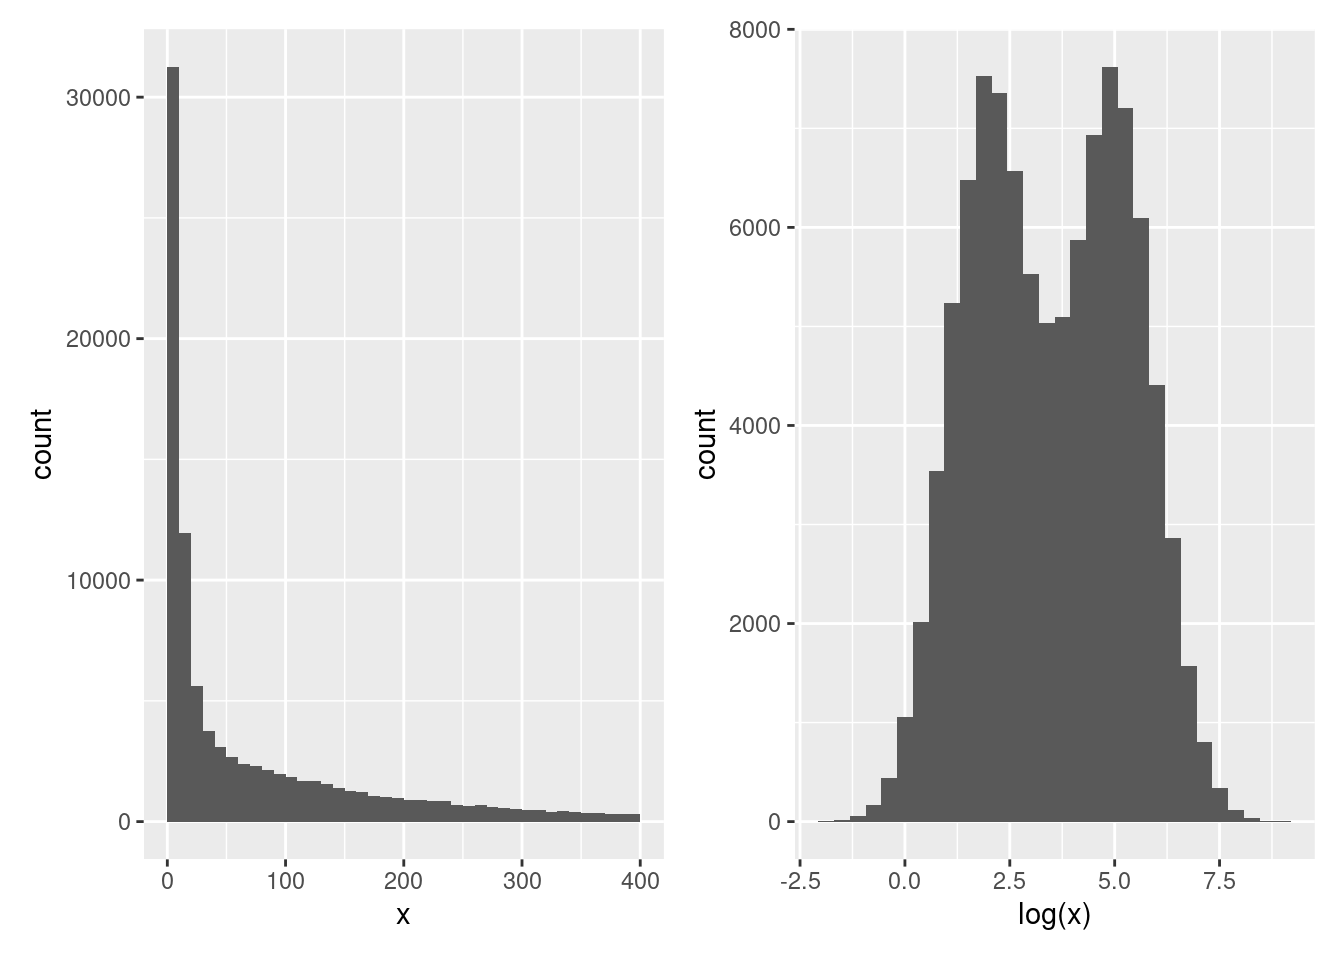
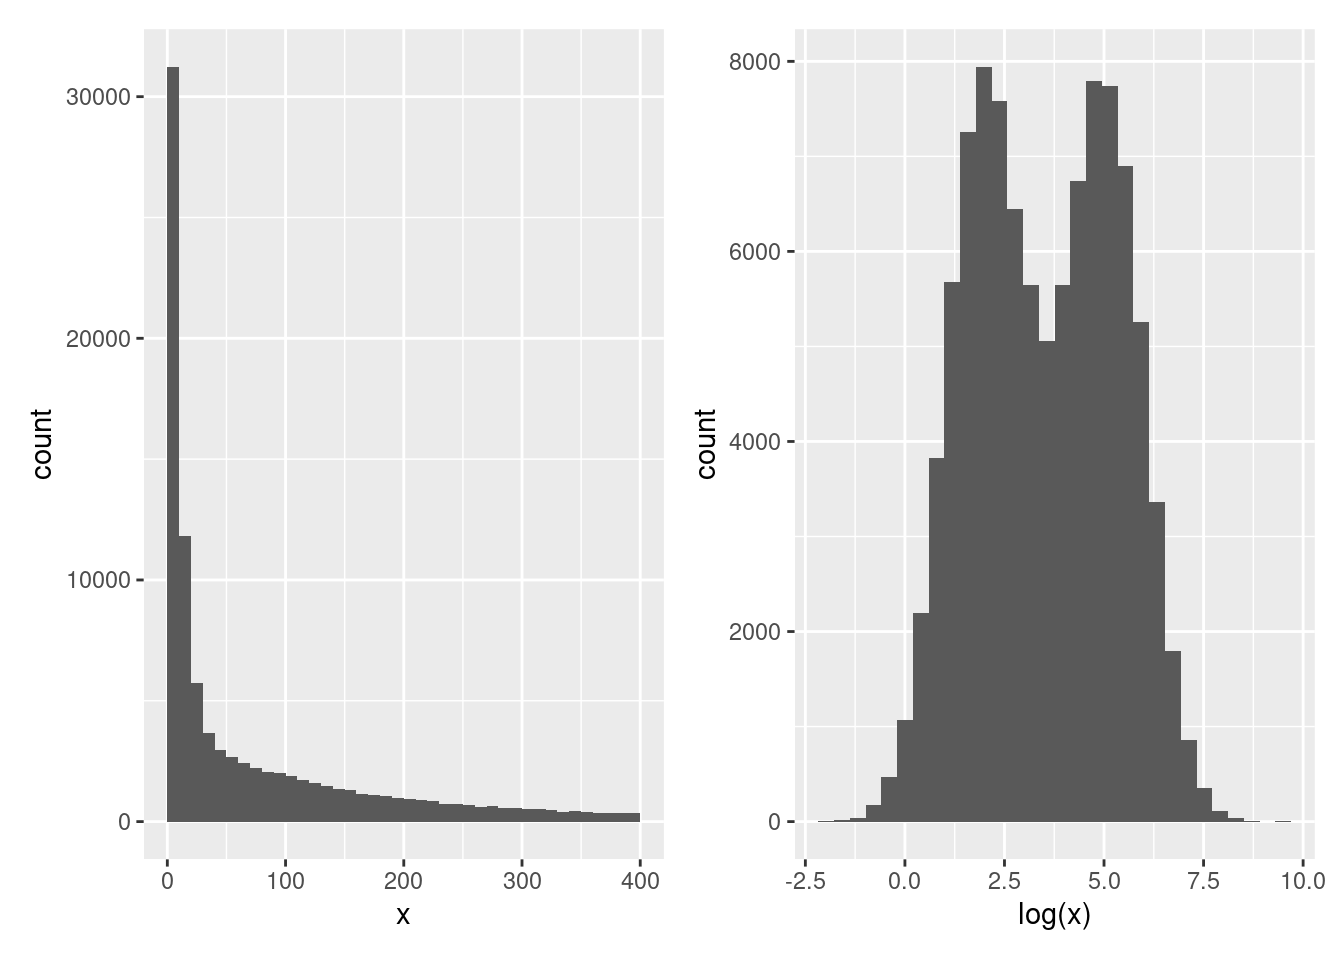
rebuild book

diff --git a/docs/sec-si.html b/docs/sec-si.html
@@ -14,7 +14,7 @@
 
 <meta name="author" content="Laurent Gatto" />
 
-<meta name="date" content="2021-11-22" />
+<meta name="date" content="2021-11-29" />
 
 <script type="text/x-mathjax-config">
 MathJax.Hub.Config({
@@ -242,7 +242,7 @@ div.csl-indent {
 ## [27] rWSBIM1207_0.1.15                     airway_1.14.0                        
 ## [29] SummarizedExperiment_1.24.0           Biobase_2.54.0                       
 ## [31] GenomicRanges_1.46.1                  GenomeInfoDb_1.30.0                  
-## [33] IRanges_2.28.0                        S4Vectors_0.32.2                     
+## [33] IRanges_2.28.0                        S4Vectors_0.32.3                     
 ## [35] BiocGenerics_0.40.0                   MatrixGenerics_1.6.0                 
 ## [37] matrixStats_0.61.0                    BiocStyle_2.22.0                     
 ## [39] patchwork_1.1.1                       ggbeeswarm_0.6.0                     
@@ -267,10 +267,10 @@ div.csl-indent {
 ##  [25] gower_0.2.2              xfun_0.28                hms_1.1.1               
 ##  [28] jquerylib_0.1.4          evaluate_0.14            fansi_0.5.0             
 ##  [31] restfulr_0.0.13          progress_1.2.2           dendextend_1.15.2       
-##  [34] dbplyr_2.1.1             readxl_1.3.1             igraph_1.2.8            
+##  [34] dbplyr_2.1.1             readxl_1.3.1             igraph_1.2.9            
 ##  [37] DBI_1.1.1                htmlwidgets_1.5.4        ellipsis_0.3.2          
-##  [40] ggpubr_0.4.0             backports_1.3.0          bookdown_0.24           
-##  [43] biomaRt_2.50.0           vctrs_0.3.8              abind_1.4-5             
+##  [40] ggpubr_0.4.0             backports_1.4.0          bookdown_0.24           
+##  [43] biomaRt_2.50.1           vctrs_0.3.8              abind_1.4-5             
 ##  [46] caret_6.0-90             cachem_1.0.6             withr_2.4.2             
 ##  [49] msmbstyle_0.0.19         vroom_1.5.6              checkmate_2.0.0         
 ##  [52] GenomicAlignments_1.30.0 prettyunits_1.1.1        mclust_5.4.8            
@@ -321,7 +321,7 @@ the following code:</p>
 <a href="sec-ccl.html"><button class="btn btn-default">Previous</button></a>
 </p>
 <p class="build-date">Page built: 
-2021-11-22
+2021-11-29
  using 
 R version 4.1.2 (2021-11-01)
 </p>

diff --git a/docs/sec-biovis.html b/docs/sec-biovis.html
@@ -14,7 +14,7 @@
 
 <meta name="author" content="Laurent Gatto" />
 
-<meta name="date" content="2021-11-22" />
+<meta name="date" content="2021-11-29" />
 
 <script type="text/x-mathjax-config">
 MathJax.Hub.Config({
@@ -323,7 +323,8 @@ data (not only proteomics) for a useful reference.</p>
 analysis. Venn and Euler diagrams are popular representation when
 comparing sets and their intersection. Two useful R packages to
 generate such plots are
-<em><a href="https://CRAN.R-project.org/package=venneuler">venneuler</a></em> and <em><a href="https://github.com/js229/Vennerable">Vennerable</a></em>.</p>
+<em><a href="https://CRAN.R-project.org/package=venneuler">venneuler</a></em> and <em><a href="https://github.com/js229/Vennerable">Vennerable</a></em><label for="tufte-sn-17" class="margin-toggle sidenote-number">17</label><input type="checkbox" id="tufte-sn-17" class="margin-toggle"><span class="sidenote"><span class="sidenote-number">17</span> You can install <code>Vennerable</code> with
+<code>BiocManager::install("js229/Vennerable")</code>.</span>.</p>
 <p>We will use the <code>mulvey2015</code> feature names to generate a test data:</p>
 <div class="sourceCode" id="cb435"><pre class="sourceCode r"><code class="sourceCode r"><span id="cb435-1"><a href="sec-biovis.html#cb435-1" aria-hidden="true" tabindex="-1"></a><span class="fu">set.seed</span>(<span class="dv">123</span>)</span>
 <span id="cb435-2"><a href="sec-biovis.html#cb435-2" aria-hidden="true" tabindex="-1"></a><span class="fu">library</span>(<span class="st">"pRolocdata"</span>)</span>
@@ -486,7 +487,7 @@ number of intersectios (default is 40) become useful.</p>
 <a href="sec-ccl.html"><button class="btn btn-default">Next</button></a>
 </p>
 <p class="build-date">Page built: 
-2021-11-22
+2021-11-29
  using 
 R version 4.1.2 (2021-11-01)
 </p>

diff --git a/docs/sec-vis.html b/docs/sec-vis.html
@@ -14,7 +14,7 @@
 
 <meta name="author" content="Laurent Gatto" />
 
-<meta name="date" content="2021-11-22" />
+<meta name="date" content="2021-11-29" />
 
 <script type="text/x-mathjax-config">
 MathJax.Hub.Config({
@@ -919,7 +919,7 @@ of the data.</p>
 <span id="cb37-9"><a href="sec-vis.html#cb37-9" aria-hidden="true" tabindex="-1"></a>p2 <span class="ot">&lt;-</span>  <span class="fu">ggplot</span>(sim, <span class="fu">aes</span>(<span class="fu">log</span>(x))) <span class="sc">+</span></span>
 <span id="cb37-10"><a href="sec-vis.html#cb37-10" aria-hidden="true" tabindex="-1"></a>    <span class="fu">geom_histogram</span>(<span class="at">bins =</span> <span class="dv">30</span>)</span>
 <span id="cb37-11"><a href="sec-vis.html#cb37-11" aria-hidden="true" tabindex="-1"></a>p1 <span class="sc">+</span> p2</span></code></pre></div>
-<pre><code>## Warning: Removed 8043 rows containing non-finite values (stat_bin).</code></pre>
+<pre><code>## Warning: Removed 8183 rows containing non-finite values (stat_bin).</code></pre>
 <div class="figure">
 <span style="display:block;" id="fig:sim"></span>
 <p class="caption marginnote shownote">
@@ -1165,7 +1165,7 @@ otherwise. Below are some example outputs.</p>
 <a href="sec-obj.html"><button class="btn btn-default">Next</button></a>
 </p>
 <p class="build-date">Page built: 
-2021-11-22
+2021-11-29
  using 
 R version 4.1.2 (2021-11-01)
 </p>

diff --git a/docs/index.html b/docs/index.html
@@ -14,7 +14,7 @@
 
 <meta name="author" content="Laurent Gatto" />
 
-<meta name="date" content="2021-11-22" />
+<meta name="date" content="2021-11-29" />
 
 <script type="text/x-mathjax-config">
 MathJax.Hub.Config({
@@ -339,7 +339,7 @@ style</a> <span class="citation">(<label for="tufte-mn-10" class="margin-toggle"
 <a href="sec-refresher.html"><button class="btn btn-default">Next</button></a>
 </p>
 <p class="build-date">Page built: 
-2021-11-22
+2021-11-29
  using 
 R version 4.1.2 (2021-11-01)
 </p>

diff --git a/docs/sec-sl.html b/docs/sec-sl.html
@@ -14,7 +14,7 @@
 
 <meta name="author" content="Laurent Gatto" />
 
-<meta name="date" content="2021-11-22" />
+<meta name="date" content="2021-11-29" />
 
 <script type="text/x-mathjax-config">
 MathJax.Hub.Config({
@@ -1053,7 +1053,7 @@ most reliable assignments one, and setting the unreliable ones to
 <a href="sec-biovis.html"><button class="btn btn-default">Next</button></a>
 </p>
 <p class="build-date">Page built: 
-2021-11-22
+2021-11-29
  using 
 R version 4.1.2 (2021-11-01)
 </p>

diff --git a/docs/sec-mlintro.html b/docs/sec-mlintro.html
@@ -14,7 +14,7 @@
 
 <meta name="author" content="Laurent Gatto" />
 
-<meta name="date" content="2021-11-22" />
+<meta name="date" content="2021-11-29" />
 
 <script type="text/x-mathjax-config">
 MathJax.Hub.Config({
@@ -761,7 +761,7 @@ but these are beyond the scope of this course.</p>
 <a href="sec-testing.html"><button class="btn btn-default">Next</button></a>
 </p>
 <p class="build-date">Page built: 
-2021-11-22
+2021-11-29
  using 
 R version 4.1.2 (2021-11-01)
 </p>

diff --git a/docs/sec-obj.html b/docs/sec-obj.html
@@ -14,7 +14,7 @@
 
 <meta name="author" content="Laurent Gatto" />
 
-<meta name="date" content="2021-11-22" />
+<meta name="date" content="2021-11-29" />
 
 <script type="text/x-mathjax-config">
 MathJax.Hub.Config({
@@ -996,7 +996,7 @@ of class <code>SummarizedExperiment</code>.</p>
 <a href="sec-biostrings.html"><button class="btn btn-default">Next</button></a>
 </p>
 <p class="build-date">Page built: 
-2021-11-22
+2021-11-29
  using 
 R version 4.1.2 (2021-11-01)
 </p>

diff --git a/docs/sec-ul.html b/docs/sec-ul.html
@@ -14,7 +14,7 @@
 
 <meta name="author" content="Laurent Gatto" />
 
-<meta name="date" content="2021-11-22" />
+<meta name="date" content="2021-11-29" />
 
 <script type="text/x-mathjax-config">
 MathJax.Hub.Config({
@@ -995,7 +995,7 @@ average marker profiles, such as shown below.</p></li>
 <a href="sec-sl.html"><button class="btn btn-default">Next</button></a>
 </p>
 <p class="build-date">Page built: 
-2021-11-22
+2021-11-29
  using 
 R version 4.1.2 (2021-11-01)
 </p>

diff --git a/docs/sec-norm.html b/docs/sec-norm.html
@@ -14,7 +14,7 @@
 
 <meta name="author" content="Laurent Gatto" />
 
-<meta name="date" content="2021-11-22" />
+<meta name="date" content="2021-11-29" />
 
 <script type="text/x-mathjax-config">
 MathJax.Hub.Config({
@@ -748,7 +748,7 @@ implications for the normalisation step?</p>
 <a href="sec-mlintro.html"><button class="btn btn-default">Next</button></a>
 </p>
 <p class="build-date">Page built: 
-2021-11-22
+2021-11-29
  using 
 R version 4.1.2 (2021-11-01)
 </p>

diff --git a/docs/sec-refresher.html b/docs/sec-refresher.html
@@ -14,7 +14,7 @@
 
 <meta name="author" content="Laurent Gatto" />
 
-<meta name="date" content="2021-11-22" />
+<meta name="date" content="2021-11-29" />
 
 <script type="text/x-mathjax-config">
 MathJax.Hub.Config({
@@ -372,7 +372,7 @@ state it explicitly in your response.</p>
 <a href="sec-vis.html"><button class="btn btn-default">Next</button></a>
 </p>
 <p class="build-date">Page built: 
-2021-11-22
+2021-11-29
  using 
 R version 4.1.2 (2021-11-01)
 </p>

diff --git a/docs/sec-testing.html b/docs/sec-testing.html
@@ -14,7 +14,7 @@
 
 <meta name="author" content="Laurent Gatto" />
 
-<meta name="date" content="2021-11-22" />
+<meta name="date" content="2021-11-29" />
 
 <script type="text/x-mathjax-config">
 MathJax.Hub.Config({
@@ -1132,7 +1132,7 @@ conclusion now?</li>
 <a href="sec-dimred.html"><button class="btn btn-default">Next</button></a>
 </p>
 <p class="build-date">Page built: 
-2021-11-22
+2021-11-29
  using 
 R version 4.1.2 (2021-11-01)
 </p>

diff --git a/docs/404.html b/docs/404.html
@@ -14,7 +14,7 @@
 
 <meta name="author" content="Laurent Gatto" />
 
-<meta name="date" content="2021-11-22" />
+<meta name="date" content="2021-11-29" />
 
 <script type="text/x-mathjax-config">
 MathJax.Hub.Config({
@@ -208,7 +208,7 @@ the table of contents to find the page you are looking for.</p>
 <p style="text-align: center;">
 </p>
 <p class="build-date">Page built: 
-2021-11-22
+2021-11-29
  using 
 R version 4.1.2 (2021-11-01)
 </p>
